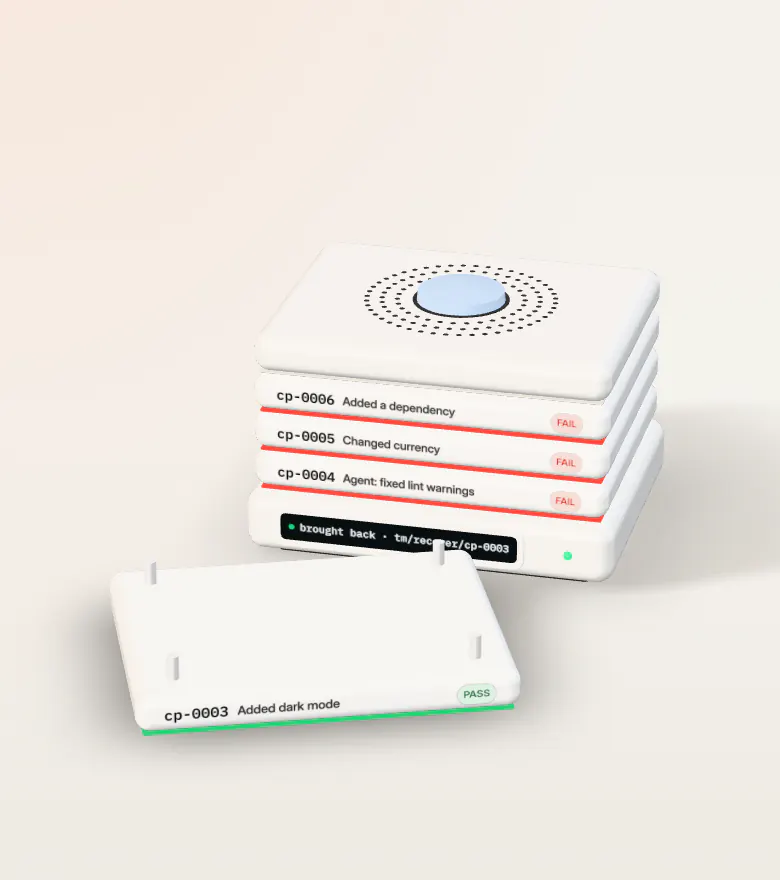
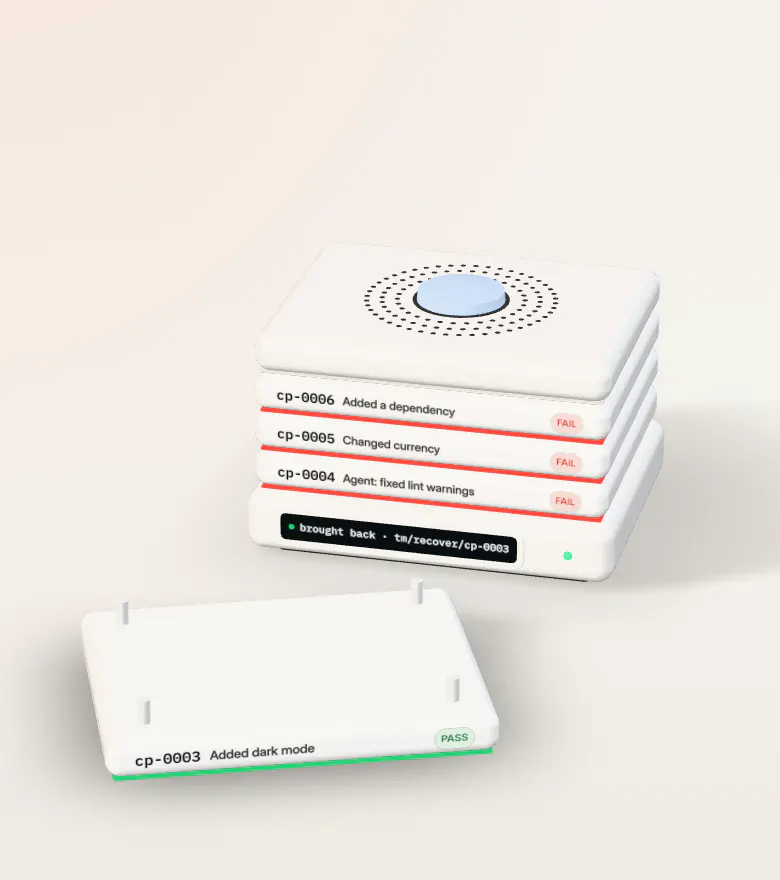
site S5: phones rest cp-0003 below the readout at the end beat (Design next-pass note) (#35)
At 390 the slid-out cp-0003 rested so that its back-right peg covered the
middle of the base's readout ("tm/recov...r/cp-0003"). Phones now rest it
further forward (z 2.75 -> 3.45); the camera looks down there, so it sits
below the readout with a clear gap at every phone size. That far forward its
soft contact shadow reached the edge of the 10-unit shadow plane and ended in
a hard line, so phones use a 12-unit plane (stage.js: contact.phone
overrides). Desktop unchanged: frames at p 0/.3/.565/.75/.9/1 pixel-identical
to the build before, desktop stills byte-identical.

Phone poster and stills re-captured (the plane change alters the p 0 frame):
poster vs 3D 42.0 dB at 390 (45.0 at 1440). Machine whole at every beat at
390x844/664, 360x740, 375x667, 430x932, 412x915, iPhone 15/12/SE 3, Pixel 7,
Galaxy S24; subtitle gaps unchanged. Reverse scroll 20/20; 1440x4 1.5 %,
390x4 0.9 % dropped, 0 LoAF. machine.js 196,983 B gzip -9, byte-identical
rebuild.

Changed region(s): [[0.0308, 0.6136, 0.7077, 0.9205], [0.2154, 0.7364, 0.2462, 0.767], [0.1846, 0.6443, 0.2154, 0.675]]

diff --git a/site/assets/machine/machine.js b/site/assets/machine/machine.js
@@ -4281,11 +4281,11 @@ void main() {
 
 			gl_FragColor = sum;
 
-		}`};var _f=()=>globalThis.scheduler?.yield?globalThis.scheduler.yield():new Promise(s=>setTimeout(s,0)),VS=1;async function Ug(s){let e=s.canvas,t=matchMedia("(max-width: 640px)").matches,n=window.__machineCapture===!0,i=new Il({canvas:e,antialias:!0,alpha:!0,powerPreference:"high-performance",failIfMajorPerformanceCaveat:!0,preserveDrawingBuffer:n});i.setPixelRatio(Math.min(devicePixelRatio,2)*VS),i.toneMapping=zr,i.toneMappingExposure=s.exposure??1,i.outputColorSpace=zt,i.shadowMap.enabled=!0,i.shadowMap.type=vi;let r=new ui;await _f();let a=new Ps(i);r.environment=a.fromScene(new au,.04).texture,r.environmentIntensity=s.envIntensity??1,a.dispose();let o=new wt(s.fov??28,1,.05,100),l={THREE:Ue,renderer:i,scene:r,camera:o,phone:t,canvas:e,p:0,t:0,root:new Sn};r.add(l.root);let c=Object.assign({size:3,y:0,blur:3.2,darkness:1.4,opacity:.55,res:512},s.contact||{}),h=new Sn;h.position.y=c.y,r.add(h);let d=new Dt(c.res,c.res),u=new Dt(c.res,c.res);d.texture.generateMipmaps=u.texture.generateMipmaps=!1;let f=new gi(c.size,c.size).rotateX(Math.PI/2),p=new ot(f,new mn({map:d.texture,opacity:c.opacity,transparent:!0,depthWrite:!1}));p.renderOrder=1,p.scale.y=-1,h.add(p);let _=new ot(f);_.visible=!1,h.add(_);let g=new Qn(-c.size/2,c.size/2,c.size/2,-c.size/2,0,1.2);g.rotation.x=Math.PI/2,h.add(g);let m=new Gi;m.userData.darkness={value:c.darkness},m.onBeforeCompile=Z=>{Z.uniforms.darkness=m.userData.darkness,Z.fragmentShader=`uniform float darkness;
+		}`};var _f=()=>globalThis.scheduler?.yield?globalThis.scheduler.yield():new Promise(s=>setTimeout(s,0)),VS=1;async function Ug(s){let e=s.canvas,t=matchMedia("(max-width: 640px)").matches,n=window.__machineCapture===!0,i=new Il({canvas:e,antialias:!0,alpha:!0,powerPreference:"high-performance",failIfMajorPerformanceCaveat:!0,preserveDrawingBuffer:n});i.setPixelRatio(Math.min(devicePixelRatio,2)*VS),i.toneMapping=zr,i.toneMappingExposure=s.exposure??1,i.outputColorSpace=zt,i.shadowMap.enabled=!0,i.shadowMap.type=vi;let r=new ui;await _f();let a=new Ps(i);r.environment=a.fromScene(new au,.04).texture,r.environmentIntensity=s.envIntensity??1,a.dispose();let o=new wt(s.fov??28,1,.05,100),l={THREE:Ue,renderer:i,scene:r,camera:o,phone:t,canvas:e,p:0,t:0,root:new Sn};r.add(l.root);let c=Object.assign({size:3,y:0,blur:3.2,darkness:1.4,opacity:.55,res:512},s.contact,t&&s.contact?.phone),h=new Sn;h.position.y=c.y,r.add(h);let d=new Dt(c.res,c.res),u=new Dt(c.res,c.res);d.texture.generateMipmaps=u.texture.generateMipmaps=!1;let f=new gi(c.size,c.size).rotateX(Math.PI/2),p=new ot(f,new mn({map:d.texture,opacity:c.opacity,transparent:!0,depthWrite:!1}));p.renderOrder=1,p.scale.y=-1,h.add(p);let _=new ot(f);_.visible=!1,h.add(_);let g=new Qn(-c.size/2,c.size/2,c.size/2,-c.size/2,0,1.2);g.rotation.x=Math.PI/2,h.add(g);let m=new Gi;m.userData.darkness={value:c.darkness},m.onBeforeCompile=Z=>{Z.uniforms.darkness=m.userData.darkness,Z.fragmentShader=`uniform float darkness;
 `+Z.fragmentShader.replace("gl_FragColor = vec4( vec3( 1.0 - fragCoordZ ), opacity );","gl_FragColor = vec4( vec3( 0.0 ), ( 1.0 - fragCoordZ ) * darkness );")},m.depthTest=m.depthWrite=!1;let y=new Gt(Lg),b=new Gt(Dg);y.depthTest=b.depthTest=!1;function x(Z){_.visible=!0,_.material=y,y.uniforms.tDiffuse.value=d.texture,y.uniforms.h.value=Z/256,i.setRenderTarget(u),i.render(_,g),_.material=b,b.uniforms.tDiffuse.value=u.texture,b.uniforms.v.value=Z/256,i.setRenderTarget(d),i.render(_,g),_.visible=!1}function w(){p.visible=!1,r.overrideMaterial=m;let Z=i.getClearAlpha();i.setClearAlpha(0),i.setRenderTarget(d),i.clear(),i.render(r,g),r.overrideMaterial=null,x(c.blur),x(c.blur*.4),i.setRenderTarget(null),i.setClearAlpha(Z),p.visible=!0}function T(){let Z=e.clientWidth,V=e.clientHeight;!Z||!V||(i.setSize(Z,V,!1),o.aspect=Z/V,o.updateProjectionMatrix())}let C=s.pin,v=C?[...C.querySelectorAll("*")].find(Z=>getComputedStyle(Z).position==="sticky"):null;function E(){if(!C||!v)return 0;let Z=parseFloat(getComputedStyle(v).top)||0,V=C.offsetHeight-v.offsetHeight;return V>0?Math.max(0,Math.min(1,(Z-C.getBoundingClientRect().top)/V)):0}i.shadowMap.autoUpdate=!1;let I=[],P=null;function O(){r.updateMatrixWorld();let Z=0,V=!P;P??=new Float64Array(I.length*16);for(let Q of I)for(let q of Q.matrixWorld.elements)P[Z]!==q&&(P[Z]=q,V=!0),Z++;return V}let U=0,L=performance.now(),B=!1;function X(Z){U=0;let V=Math.min(.05,(Z-L)/1e3);L=Z,l.t+=V,l.dt=V,B=s.update(l.p,l)===!0,O()&&(i.shadowMap.needsUpdate=!0,w()),i.render(r,o),B&&W()}function W(){U||(L=performance.now(),U=requestAnimationFrame(X))}return l.request=W,await _f(),s.build(l),r.traverse(Z=>{Z.isMesh&&Z.castShadow&&I.push(Z)}),T(),await _f(),await i.compileAsync(r,o),new ResizeObserver(()=>{T(),W()}).observe(e),addEventListener("scroll",()=>{l.p=E(),W()},{passive:!0}),l.p=E(),l.setP=(Z,V=90)=>new Promise(Q=>{l.p=Z;let q=0,Me=()=>{l.p=Z,X(performance.now()),B&&q++<V?requestAnimationFrame(Me):requestAnimationFrame(()=>Q())};requestAnimationFrame(Me)}),W(),l}function xf(s,e,t){let n=document.createElement("canvas");n.width=s,n.height=e;let i=n.getContext("2d"),r=new gr(n);r.colorSpace=zt,r.anisotropy=8;let a=(...o)=>{i.clearRect(0,0,s,e),t(i,s,e,...o),r.needsUpdate=!0};return a(),{texture:r,redraw:a}}var Ng={inOut:s=>s<.5?4*s*s*s:1-Math.pow(-2*s+2,3)/2,out:s=>1-Math.pow(1-s,3),seg:(s,e,t)=>Math.max(0,Math.min(1,(s-e)/(t-e))),mix:(s,e,t)=>s+(e-s)*t},Fg=[{id:"cp-0006",note:"Added a dependency",pass:!1,time:"10:42:07"},{id:"cp-0005",note:"Changed currency",pass:!1,time:"10:31:52"},{id:"cp-0004",note:"Agent: fixed lint warnings",pass:!1,time:"10:18:40"},{id:"cp-0003",note:"Added dark mode",pass:!0,time:"10:02:13"}];var Pl=new R;function Rn(s,e,t,n,i,r){let a=2*Math.PI*i/4,o=Math.max(r-2*i,0),l=Math.PI/4;Pl.copy(e),Pl[n]=0,Pl.normalize();let c=.5*a/(a+o),h=1-Pl.angleTo(s)/l;return Math.sign(Pl[t])===1?h*c:o/(a+o)+c+c*(1-h)}var Ti=class s extends wn{constructor(e=1,t=1,n=1,i=2,r=.1){let a=i*2+1;if(r=Math.min(e/2,t/2,n/2,r),super(1,1,1,a,a,a),this.type="RoundedBoxGeometry",this.parameters={width:e,height:t,depth:n,segments:i,radius:r},a===1)return;let o=this.toNonIndexed();this.index=null,this.attributes.position=o.attributes.position,this.attributes.normal=o.attributes.normal,this.attributes.uv=o.attributes.uv;let l=new R,c=new R,h=new R(e,t,n).divideScalar(2).subScalar(r),d=this.attributes.position.array,u=this.attributes.normal.array,f=this.attributes.uv.array,p=d.length/6,_=new R,g=.5/a;for(let m=0,y=0;m<d.length;m+=3,y+=2)switch(l.fromArray(d,m),c.copy(l),c.x-=Math.sign(c.x)*g,c.y-=Math.sign(c.y)*g,c.z-=Math.sign(c.z)*g,c.normalize(),d[m+0]=h.x*Math.sign(l.x)+c.x*r,d[m+1]=h.y*Math.sign(l.y)+c.y*r,d[m+2]=h.z*Math.sign(l.z)+c.z*r,u[m+0]=c.x,u[m+1]=c.y,u[m+2]=c.z,Math.floor(m/p)){case 0:_.set(1,0,0),f[y+0]=Rn(_,c,"z","y",r,n),f[y+1]=1-Rn(_,c,"y","z",r,t);break;case 1:_.set(-1,0,0),f[y+0]=1-Rn(_,c,"z","y",r,n),f[y+1]=1-Rn(_,c,"y","z",r,t);break;case 2:_.set(0,1,0),f[y+0]=1-Rn(_,c,"x","z",r,e),f[y+1]=Rn(_,c,"z","x",r,n);break;case 3:_.set(0,-1,0),f[y+0]=1-Rn(_,c,"x","z",r,e),f[y+1]=1-Rn(_,c,"z","x",r,n);break;case 4:_.set(0,0,1),f[y+0]=1-Rn(_,c,"x","y",r,e),f[y+1]=1-Rn(_,c,"y","x",r,t);break;case 5:_.set(0,0,-1),f[y+0]=Rn(_,c,"x","y",r,e),f[y+1]=1-Rn(_,c,"y","x",r,t);break}}static fromJSON(e){return new s(e.width,e.height,e.depth,e.segments,e.radius)}};var{seg:an,mix:qi,inOut:ou,out:kS}=Ng,ta='"IBM Plex Mono", ui-monospace, monospace',cu="Inter, system-ui, sans-serif",Og="#141414",Bg="#3a3936",Ul={idle:new Ue.Color("#b4d6ff"),scan:new Ue.Color("#ffffff"),fail:new Ue.Color("#ff4a3d"),pass:new Ue.Color("#2fd27a")},Be={W:2.8,Dp:2.2,foot:.05,baseH:.5,H:.3,seam:.024,capH:.32,gap:.5,r:.11},GS=[3,2,1,0],wf=Be.foot+Be.baseH,hu=Be.H+Be.seam,Sf=s=>wf+Be.seam+Be.H/2+s*hu,Wg=wf+4*hu+Be.capH/2+.012,ni={layers:[]},uu;function bf(s,e,t){let n=new Ue.Shape,i=-s/2,r=-e/2;return n.moveTo(i+t,r),n.lineTo(i+s-t,r),n.quadraticCurveTo(i+s,r,i+s,r+t),n.lineTo(i+s,r+e-t),n.quadraticCurveTo(i+s,r+e,i+s-t,r+e),n.lineTo(i+t,r+e),n.quadraticCurveTo(i,r+e,i,r+e-t),n.lineTo(i,r+t),n.quadraticCurveTo(i,r,i+t,r),n}function HS(s,e,t,n){let i=new Ue.Mesh(new Ue.ShapeGeometry(bf(s,e,t),12),n),r=i.geometry.attributes.uv,a=i.geometry.attributes.position;for(let o=0;o<r.count;o++)r.setXY(o,a.getX(o)/s+.5,a.getY(o)/e+.5);return i}function WS(s){let{scene:e,root:t}=s,n=new Ue.MeshPhysicalMaterial({color:"#f8f8f6",roughness:.34,clearcoat:.55,clearcoatRoughness:.3,sheen:.3,sheenColor:new Ue.Color("#ffffff"),sheenRoughness:.55}),i=n.clone();i.color=new Ue.Color("#efeeeb"),i.roughness=.42;let r=new Ue.MeshStandardMaterial({color:"#2a2928",roughness:.9}),a=new Ue.MeshPhysicalMaterial({color:"#ffffff",metalness:.5,roughness:.3,envMapIntensity:1.3}),o=new Ue.MeshStandardMaterial({color:"#3b3a38",roughness:.85}),l=new Ue.Group;t.add(l),ni.machine=l;let c=new Ue.Mesh(new Ti(Be.W+.12,Be.baseH,Be.Dp+.12,8,Be.r+.03),i);c.position.y=Be.foot+Be.baseH/2,c.castShadow=c.receiveShadow=!0,l.add(c);let h=new Ue.Mesh(new Ti(Be.W-.3,Be.foot*2,Be.Dp-.3,3,.04),o);h.position.y=Be.foot*.5,l.add(h);let d=(Be.Dp+.12)/2;uu=xf(1400,180,qS);let u=HS(1.9,.24,.06,new Ue.MeshPhysicalMaterial({color:"#0d0f10",roughness:.12,clearcoat:1,clearcoatRoughness:.05,emissive:"#ffffff",emissiveMap:uu.texture,emissiveIntensity:1.1}));u.position.set(-.22,Be.foot+Be.baseH/2,d+.003),l.add(u);let f=new Ue.Mesh(new Ue.ExtrudeGeometry((()=>{let q=bf(1.98,.32,.1);return q.holes.push(bf(1.9,.24,.06)),q})(),{depth:.02,bevelEnabled:!0,bevelThickness:.008,bevelSize:.008,bevelSegments:2,curveSegments:10}),i);f.position.set(-.22,Be.foot+Be.baseH/2,d-.012),l.add(f);let p=new Ue.Mesh(new Ue.SphereGeometry(.035,20,10),new Ue.MeshStandardMaterial({color:"#26394f",emissive:"#9fcbff",emissiveIntensity:1.8,roughness:.3}));p.position.set(1.12,Be.foot+Be.baseH/2,d+.004),l.add(p),ni.led=p;let _=new Ue.CylinderGeometry(.045,.045,.2,20),g=[[-1,-1],[1,-1],[-1,1],[1,1]].map(([q,Me])=>[q*(Be.W/2-.3),Me*(Be.Dp/2-.3)]);function m(q,Me){for(let[de,et]of g){let Je=new Ue.Mesh(_,a);Je.position.set(de,Me,et),Je.castShadow=!0,q.add(Je)}}m(l,wf+.08);let y=new Ti(Be.W,Be.H,Be.Dp,7,Be.r),b=new Ti(Be.W-.1,Be.seam+.002,Be.Dp-.1,3,.03);for(let q=0;q<4;q++){let Me=Fg[GS[q]],de=new Ue.Group,et=new Ue.Mesh(y,n);et.castShadow=et.receiveShadow=!0,de.add(et);let Je=new Ue.MeshBasicMaterial({color:Ul.idle.clone(),toneMapped:!1}),rt=new Ue.Mesh(b,Je);rt.position.y=-Be.H/2-Be.seam/2,de.add(rt),m(de,Be.H/2+.08);let J=xf(2048,200,(_e,Ve,we,He)=>XS(_e,Ve,we,Me,He)),ee=new Ue.Mesh(new Ue.PlaneGeometry(Be.W-.34,(Be.W-.34)*(200/2048)),new Ue.MeshPhysicalMaterial({map:J.texture,transparent:!0,roughness:.36,clearcoat:.55,depthWrite:!1,polygonOffset:!0,polygonOffsetFactor:-2}));ee.position.set(0,0,Be.Dp/2+.002),de.add(ee),de.position.y=Sf(q),l.add(de),ni.layers.push({g:de,seam:Je,label:J,save:Me,state:""})}let x=new Ue.Group,w=new Ue.Mesh(new Ti(Be.W,Be.capH,Be.Dp,8,Be.r+.02),i);w.castShadow=w.receiveShadow=!0,x.add(w);let T=new Ue.Mesh(new Ti(Be.W-.12,.01,Be.Dp-.12,2,.03),new Ue.MeshStandardMaterial({color:"#c9c5be",roughness:.9}));T.position.y=-Be.capH/2-.006,x.add(T);let C=new Ue.CircleGeometry(.022,14).rotateX(-Math.PI/2),v=[{r:.5,n:30},{r:.62,n:38},{r:.74,n:46}],E=new Ue.InstancedMesh(C,new Ue.MeshStandardMaterial({color:"#2b2a29",roughness:.95}),v.reduce((q,Me)=>q+Me.n,0)),I=new Ue.Matrix4,P=0;for(let{r:q,n:Me}of v)for(let de=0;de<Me;de++){let et=de/Me*Math.PI*2;I.makeTranslation(Math.cos(et)*q,Be.capH/2+.002,Math.sin(et)*q),E.setMatrixAt(P++,I)}x.add(E);let O=new Ue.Mesh(new Ue.CylinderGeometry(.38,.38,.02,64),r);O.position.y=Be.capH/2-.004,x.add(O);let U=new Ue.Group,L=new Ue.MeshPhysicalMaterial({color:"#cfe6ff",roughness:.32,clearcoat:.6,clearcoatRoughness:.25}),B=new Ue.Mesh(new Ue.CylinderGeometry(.34,.35,.09,64),L),X=new Ue.Mesh(new Ue.SphereGeometry(1.6,64,8,0,Math.PI*2,0,Math.asin(.34/1.6)),L);X.position.y=.045-1.6*Math.cos(Math.asin(.34/1.6)),B.castShadow=X.castShadow=!0,U.add(B,X),U.position.y=Be.capH/2+.04,x.add(U),ni.key=U,x.position.y=Wg,l.add(x),ni.cap=x;let W=new Ue.ShadowMaterial({color:"#5e5249",opacity:.15});W.onBeforeCompile=q=>{q.vertexShader=q.vertexShader.replace("#include <common>",`#include <common>
 varying vec2 vFloor;`).replace("#include <begin_vertex>",`#include <begin_vertex>
 vFloor = (modelMatrix * vec4(transformed, 1.0)).xz;`),q.fragmentShader=q.fragmentShader.replace("#include <common>",`#include <common>
-varying vec2 vFloor;`).replace("gl_FragColor = vec4( color, opacity * ( 1.0 - getShadowMask() ) );","gl_FragColor = vec4( color, opacity * ( 1.0 - getShadowMask() ) * ( 1.0 - smoothstep( 1.6, 3.4, length( vFloor - vec2( 0.5, -0.3 ) ) ) ) );")};let Z=new Ue.Mesh(new Ue.PlaneGeometry(40,40).rotateX(-Math.PI/2),W);Z.receiveShadow=!0,e.add(Z);let V=new Ue.DirectionalLight("#fff0e2",2.6);V.position.set(-9,5.2,5),V.castShadow=!0,V.shadow.mapSize.set(2048,2048),V.shadow.radius=22,V.shadow.blurSamples=24,V.shadow.bias=-5e-4,Object.assign(V.shadow.camera,{left:-6,right:11,top:9,bottom:-5,near:1,far:30}),e.add(V);let Q=new Ue.DirectionalLight("#dceaff",1.1);Q.position.set(6,5,-6),e.add(Q)}function XS(s,e,t,n,i){let r=t/2;s.textBaseline="middle",s.fillStyle=Og,s.font=`500 92px ${ta}`,s.fillText(n.id,24,r);let a=s.measureText(n.id).width;if(s.fillStyle=Bg,s.font=`500 78px ${cu}`,s.fillText(n.note,24+a+52,r),s.textAlign="right",i==="fail"||i==="pass"||i==="scan"){let o=i==="fail"?"FAIL":i==="pass"?"PASS":"Checking",[l,c]=i==="fail"?["#fbe1db","#b3261e"]:i==="pass"?["#dff3e4","#17733e"]:["#cfe6ff",Og];s.font=`700 64px ${cu}`;let h=s.measureText(o).width,d=h+72,u=132,f=e-24-d,p=r-u/2;s.fillStyle=l,s.beginPath(),s.roundRect(f,p,d,u,u/2),s.fill(),s.fillStyle=c,s.fillText(o,e-24-36,r+2)}else s.fillStyle=Bg,s.font=`400 72px ${ta}`,s.fillText(n.time,e-24,r);s.textAlign="left"}function qS(s,e,t,n="4 save points \xB7 ready",i="#cfe6ff",r=n.length){s.fillStyle="#0d0f10",s.fillRect(0,0,e,t),s.textBaseline="middle",s.fillStyle=i,s.beginPath(),s.arc(70,t/2,16,0,Math.PI*2),s.fill(),s.fillStyle="#eef3f8",s.font=`500 70px ${ta}`;let a=Math.min(70,Math.floor(70*(e-160)/s.measureText(n).width));s.font=`500 ${a}px ${ta}`;let o=n.slice(0,r);s.fillText(o,120,t/2+2),r<n.length&&s.fillRect(120+s.measureText(o).width+6,t/2-a*.5,a*.58,a)}var Xg=[...document.querySelectorAll("[data-sub]")],vf=document.querySelector("[data-hero]"),YS=document.querySelector("[data-cue]"),ZS=document.querySelector("[data-live]"),Tf=document.getElementById("poster"),qg=()=>{Tf?.remove(),Tf=null},zg=-1,lu="",Vg="",Ll=-1,yf=-1,Dl=new Ue.Vector3,kg=new Ue.Vector3,Mf=new Ue.Color,Gg=Xg.map(s=>{let e=s.querySelector(".sub-s"),t=e.textContent,n=document.createTextNode(t),i=document.createElement("span"),r=document.createElement("span");return i.className="cur",r.className="rest",e.replaceChildren(n,i,r),{text:t,typed:n,rest:r}}),Hg=0;function JS(s){clearTimeout(Hg);for(let a of Gg)a.typed.data=a.text,a.rest.textContent="";if(s<0)return;let{text:e,typed:t,rest:n}=Gg[s],i=Math.ceil(e.length/12),r=0;(function a(){r=Math.min(e.length,r+i),t.data=e.slice(0,r),n.textContent=e.slice(r),r<e.length&&(Hg=setTimeout(a,22))})()}var $S=s=>[.28+.07*s,.28+.07*s+.04];function KS(s,e){let{camera:t,phone:n}=e,i=ni.layers;Tf&&s>5e-4&&qg();let r=(U,L=1.1)=>1+(L+1)*(U-1)**3+L*(U-1)**2,a=U=>r(ou(an(s,.06+.025*U,.2+.025*U))),o=ou(an(s,.6,.8)),l=ou(an(s,.68,.86));for(let U=0;U<4;U++){let L=i[U].g,B=a(4-U)*(1-(U===0?0:l)),X=Sf(U)+(U+1)*Be.gap*B,W=0,Z=0,V=0,Q=0;U===0?(X=qi(Sf(0)+Be.gap*a(4),Be.seam+Be.H/2+.002,kS(an(s,.66,.86)))+.22*Math.sin(Math.PI*o),W=(n?-.5:-2.25)*o,Z=(n?2.75:2.35)*o,V=.4*o,Q=.03*Math.sin(Math.PI*o)):X-=hu*l;let q=Math.sin(Math.PI*an(s,.06+.025*(4-U),.2+.025*(4-U)));L.position.set(W,X,Z),L.rotation.set(Q,V+.035*q*(U%2?1:-1),.01*q)}ni.cap.position.y=Wg+5*Be.gap*a(0)*(1-l)-hu*l;let c="4 save points \xB7 ready",h="#cfe6ff",d="";for(let U=0;U<4;U++){let L=3-U,B=i[L],[X,W]=$S(U),Z=an(s,X,W),V=s>=W,Q=V?B.save.pass?"pass":"fail":Z>0?"scan":"",q=Math.sin(Math.PI*Z);V?Mf.copy(B.save.pass?Ul.pass:Ul.fail):Mf.copy(Ul.idle).lerp(Ul.scan,q),B.seam.color.copy(Mf),Q!==B.state&&(B.label.redraw(Q),B.state=Q),Z>0&&(c=V?`${B.save.id} \xB7 ${B.save.pass?"passed":"failed"}`:`checking ${B.save.id}`,h=V?B.save.pass?"#2fd27a":"#ff4a3d":"#ffffff"),V&&(d=`${B.save.id} \xB7 ${B.save.note} \xB7 ${B.save.pass?"tests passed":"tests failed"}`)}s>=.6&&(c="brought back \xB7 tm/recover/cp-0003",h="#2fd27a",d="cp-0003 brought back on branch tm/recover/cp-0003, in a separate copy"),c!==lu&&(Ll=lu?e.t:-1,yf=-1,lu=c,Ll<0&&uu.redraw(c,h));let u=!1;if(Ll>=0){let U=Math.min(c.length,3*Math.floor((e.t-Ll)/.03+1));U!==yf&&(uu.redraw(c,h,U),yf=U),U<c.length?u=!0:Ll=-1}ni.led.material.emissive.set(h),d!==Vg&&(ZS.textContent=d,Vg=d);let f=an(s,.585,.605)-an(s,.62,.64);ni.key.position.y=Be.capH/2+.04-.035*f;let p=[{p:0,az:34,el:17,d:11.2,ty:1.15},{p:.24,az:26,el:13,d:16.4,ty:2.5},{p:.56,az:20,el:11,d:16,ty:2.3},{p:.86,az:14,el:15,d:14,ty:1.1}],_=0;for(;_<p.length-2&&s>p[_+1].p;)_++;let g=p[_],m=p[_+1],y=ou(an(s,g.p,m.p)),b=n?qi(2.15,1.85,an(s,.03,.2))+.35*an(s,.6,.86):1,x=qi(g.el,m.el,y)+(n?9*an(s,.6,.86):0),w=qi(g.az,m.az,y)*Math.PI/180,T=x*Math.PI/180,C=qi(g.d,m.d,y)*b;Dl.set((n?-.35:-.7)*o,qi(g.ty,m.ty,y)+(n?-.35:0),qi(0,.9,an(s,.6,.86))),kg.set(Dl.x+Math.sin(w)*Math.cos(T)*C,Dl.y+Math.sin(T)*C,Dl.z+Math.cos(w)*Math.cos(T)*C),t.position.copy(kg),t.lookAt(Dl);let v=e.canvas.clientWidth,E=e.canvas.clientHeight,I=e.canvas.dataset.dy;n?t.setViewOffset(v,E,0,-qi(I===void 0?E*.27:+I,E*.11,an(s,.03,.2)),v,E):t.setViewOffset(v,E,-v*.17,0,v,E);let P=an(s,.03,.12);vf.style.opacity=String(1-P),vf.style.transform=`translateY(${-14*P}px)`,vf.style.visibility=P>=1?"hidden":"",YS.style.opacity=s<.02?"":"0";let O=s<.27?-1:s<.53?0:s<.6?1:2;return O!==zg&&(Xg.forEach((U,L)=>U.classList.toggle("on",L===O)),zg=O,JS(O)),u}var fu=document.getElementById("machine"),du=await Ug({canvas:fu,pin:document.querySelector(".pin"),fov:24,exposure:1,envIntensity:.7,contact:{size:10,y:.001,blur:3.4,darkness:1.3,opacity:.55},build:WS,update:KS});fu.addEventListener("layout",()=>du.request());fu.addEventListener("transitionend",qg,{once:!0});Promise.all([`500 92px ${ta}`,`400 72px ${ta}`,`500 78px ${cu}`,`700 64px ${cu}`].map(s=>document.fonts.load(s))).finally(()=>{for(let s of ni.layers)s.label.redraw(s.state);lu="",du.request(),requestAnimationFrame(()=>requestAnimationFrame(()=>fu.classList.add("on")))});window.__machineCapture===!0&&(du.ready=!0,window.__stage=du);
+varying vec2 vFloor;`).replace("gl_FragColor = vec4( color, opacity * ( 1.0 - getShadowMask() ) );","gl_FragColor = vec4( color, opacity * ( 1.0 - getShadowMask() ) * ( 1.0 - smoothstep( 1.6, 3.4, length( vFloor - vec2( 0.5, -0.3 ) ) ) ) );")};let Z=new Ue.Mesh(new Ue.PlaneGeometry(40,40).rotateX(-Math.PI/2),W);Z.receiveShadow=!0,e.add(Z);let V=new Ue.DirectionalLight("#fff0e2",2.6);V.position.set(-9,5.2,5),V.castShadow=!0,V.shadow.mapSize.set(2048,2048),V.shadow.radius=22,V.shadow.blurSamples=24,V.shadow.bias=-5e-4,Object.assign(V.shadow.camera,{left:-6,right:11,top:9,bottom:-5,near:1,far:30}),e.add(V);let Q=new Ue.DirectionalLight("#dceaff",1.1);Q.position.set(6,5,-6),e.add(Q)}function XS(s,e,t,n,i){let r=t/2;s.textBaseline="middle",s.fillStyle=Og,s.font=`500 92px ${ta}`,s.fillText(n.id,24,r);let a=s.measureText(n.id).width;if(s.fillStyle=Bg,s.font=`500 78px ${cu}`,s.fillText(n.note,24+a+52,r),s.textAlign="right",i==="fail"||i==="pass"||i==="scan"){let o=i==="fail"?"FAIL":i==="pass"?"PASS":"Checking",[l,c]=i==="fail"?["#fbe1db","#b3261e"]:i==="pass"?["#dff3e4","#17733e"]:["#cfe6ff",Og];s.font=`700 64px ${cu}`;let h=s.measureText(o).width,d=h+72,u=132,f=e-24-d,p=r-u/2;s.fillStyle=l,s.beginPath(),s.roundRect(f,p,d,u,u/2),s.fill(),s.fillStyle=c,s.fillText(o,e-24-36,r+2)}else s.fillStyle=Bg,s.font=`400 72px ${ta}`,s.fillText(n.time,e-24,r);s.textAlign="left"}function qS(s,e,t,n="4 save points \xB7 ready",i="#cfe6ff",r=n.length){s.fillStyle="#0d0f10",s.fillRect(0,0,e,t),s.textBaseline="middle",s.fillStyle=i,s.beginPath(),s.arc(70,t/2,16,0,Math.PI*2),s.fill(),s.fillStyle="#eef3f8",s.font=`500 70px ${ta}`;let a=Math.min(70,Math.floor(70*(e-160)/s.measureText(n).width));s.font=`500 ${a}px ${ta}`;let o=n.slice(0,r);s.fillText(o,120,t/2+2),r<n.length&&s.fillRect(120+s.measureText(o).width+6,t/2-a*.5,a*.58,a)}var Xg=[...document.querySelectorAll("[data-sub]")],vf=document.querySelector("[data-hero]"),YS=document.querySelector("[data-cue]"),ZS=document.querySelector("[data-live]"),Tf=document.getElementById("poster"),qg=()=>{Tf?.remove(),Tf=null},zg=-1,lu="",Vg="",Ll=-1,yf=-1,Dl=new Ue.Vector3,kg=new Ue.Vector3,Mf=new Ue.Color,Gg=Xg.map(s=>{let e=s.querySelector(".sub-s"),t=e.textContent,n=document.createTextNode(t),i=document.createElement("span"),r=document.createElement("span");return i.className="cur",r.className="rest",e.replaceChildren(n,i,r),{text:t,typed:n,rest:r}}),Hg=0;function JS(s){clearTimeout(Hg);for(let a of Gg)a.typed.data=a.text,a.rest.textContent="";if(s<0)return;let{text:e,typed:t,rest:n}=Gg[s],i=Math.ceil(e.length/12),r=0;(function a(){r=Math.min(e.length,r+i),t.data=e.slice(0,r),n.textContent=e.slice(r),r<e.length&&(Hg=setTimeout(a,22))})()}var $S=s=>[.28+.07*s,.28+.07*s+.04];function KS(s,e){let{camera:t,phone:n}=e,i=ni.layers;Tf&&s>5e-4&&qg();let r=(U,L=1.1)=>1+(L+1)*(U-1)**3+L*(U-1)**2,a=U=>r(ou(an(s,.06+.025*U,.2+.025*U))),o=ou(an(s,.6,.8)),l=ou(an(s,.68,.86));for(let U=0;U<4;U++){let L=i[U].g,B=a(4-U)*(1-(U===0?0:l)),X=Sf(U)+(U+1)*Be.gap*B,W=0,Z=0,V=0,Q=0;U===0?(X=qi(Sf(0)+Be.gap*a(4),Be.seam+Be.H/2+.002,kS(an(s,.66,.86)))+.22*Math.sin(Math.PI*o),W=(n?-.5:-2.25)*o,Z=(n?3.45:2.35)*o,V=.4*o,Q=.03*Math.sin(Math.PI*o)):X-=hu*l;let q=Math.sin(Math.PI*an(s,.06+.025*(4-U),.2+.025*(4-U)));L.position.set(W,X,Z),L.rotation.set(Q,V+.035*q*(U%2?1:-1),.01*q)}ni.cap.position.y=Wg+5*Be.gap*a(0)*(1-l)-hu*l;let c="4 save points \xB7 ready",h="#cfe6ff",d="";for(let U=0;U<4;U++){let L=3-U,B=i[L],[X,W]=$S(U),Z=an(s,X,W),V=s>=W,Q=V?B.save.pass?"pass":"fail":Z>0?"scan":"",q=Math.sin(Math.PI*Z);V?Mf.copy(B.save.pass?Ul.pass:Ul.fail):Mf.copy(Ul.idle).lerp(Ul.scan,q),B.seam.color.copy(Mf),Q!==B.state&&(B.label.redraw(Q),B.state=Q),Z>0&&(c=V?`${B.save.id} \xB7 ${B.save.pass?"passed":"failed"}`:`checking ${B.save.id}`,h=V?B.save.pass?"#2fd27a":"#ff4a3d":"#ffffff"),V&&(d=`${B.save.id} \xB7 ${B.save.note} \xB7 ${B.save.pass?"tests passed":"tests failed"}`)}s>=.6&&(c="brought back \xB7 tm/recover/cp-0003",h="#2fd27a",d="cp-0003 brought back on branch tm/recover/cp-0003, in a separate copy"),c!==lu&&(Ll=lu?e.t:-1,yf=-1,lu=c,Ll<0&&uu.redraw(c,h));let u=!1;if(Ll>=0){let U=Math.min(c.length,3*Math.floor((e.t-Ll)/.03+1));U!==yf&&(uu.redraw(c,h,U),yf=U),U<c.length?u=!0:Ll=-1}ni.led.material.emissive.set(h),d!==Vg&&(ZS.textContent=d,Vg=d);let f=an(s,.585,.605)-an(s,.62,.64);ni.key.position.y=Be.capH/2+.04-.035*f;let p=[{p:0,az:34,el:17,d:11.2,ty:1.15},{p:.24,az:26,el:13,d:16.4,ty:2.5},{p:.56,az:20,el:11,d:16,ty:2.3},{p:.86,az:14,el:15,d:14,ty:1.1}],_=0;for(;_<p.length-2&&s>p[_+1].p;)_++;let g=p[_],m=p[_+1],y=ou(an(s,g.p,m.p)),b=n?qi(2.15,1.85,an(s,.03,.2))+.35*an(s,.6,.86):1,x=qi(g.el,m.el,y)+(n?9*an(s,.6,.86):0),w=qi(g.az,m.az,y)*Math.PI/180,T=x*Math.PI/180,C=qi(g.d,m.d,y)*b;Dl.set((n?-.35:-.7)*o,qi(g.ty,m.ty,y)+(n?-.35:0),qi(0,.9,an(s,.6,.86))),kg.set(Dl.x+Math.sin(w)*Math.cos(T)*C,Dl.y+Math.sin(T)*C,Dl.z+Math.cos(w)*Math.cos(T)*C),t.position.copy(kg),t.lookAt(Dl);let v=e.canvas.clientWidth,E=e.canvas.clientHeight,I=e.canvas.dataset.dy;n?t.setViewOffset(v,E,0,-qi(I===void 0?E*.27:+I,E*.11,an(s,.03,.2)),v,E):t.setViewOffset(v,E,-v*.17,0,v,E);let P=an(s,.03,.12);vf.style.opacity=String(1-P),vf.style.transform=`translateY(${-14*P}px)`,vf.style.visibility=P>=1?"hidden":"",YS.style.opacity=s<.02?"":"0";let O=s<.27?-1:s<.53?0:s<.6?1:2;return O!==zg&&(Xg.forEach((U,L)=>U.classList.toggle("on",L===O)),zg=O,JS(O)),u}var fu=document.getElementById("machine"),du=await Ug({canvas:fu,pin:document.querySelector(".pin"),fov:24,exposure:1,envIntensity:.7,contact:{size:10,y:.001,blur:3.4,darkness:1.3,opacity:.55,phone:{size:12}},build:WS,update:KS});fu.addEventListener("layout",()=>du.request());fu.addEventListener("transitionend",qg,{once:!0});Promise.all([`500 92px ${ta}`,`400 72px ${ta}`,`500 78px ${cu}`,`700 64px ${cu}`].map(s=>document.fonts.load(s))).finally(()=>{for(let s of ni.layers)s.label.redraw(s.state);lu="",du.request(),requestAnimationFrame(()=>requestAnimationFrame(()=>fu.classList.add("on")))});window.__machineCapture===!0&&(du.ready=!0,window.__stage=du);
 /**
  * @license
  * Copyright 2010-2026 Three.js Authors

diff --git a/scripts/site-machine/src/scene.js b/scripts/site-machine/src/scene.js
@@ -274,8 +274,10 @@ function update(p, st) {
       // rests on its own seam plate, so the green light pools on the floor (the floor shows only shadow, so nothing may
       // sit below it).
       y = mix(layerY(0) + D.gap * open(4), D.seam + D.H / 2 + 0.002, out(seg(p, 0.66, 0.86))) + 0.22 * Math.sin(Math.PI * out3);
+      // Phones rest it further forward, so the camera (looking down there) shows it below the base's readout, whose
+      // middle a back peg covered at 2.75 (Design, 10-24). The contact shadow reaches that far on phones (size 12).
       x = (phone ? -0.5 : -2.25) * out3;
-      z = (phone ? 2.75 : 2.35) * out3;
+      z = (phone ? 3.45 : 2.35) * out3;
       yaw = 0.4 * out3;
       roll = 0.03 * Math.sin(Math.PI * out3);
     } else {
@@ -359,7 +361,7 @@ function update(p, st) {
 }
 
 const canvas = document.getElementById("machine");
-const stage = await createStage({ canvas, pin: document.querySelector(".pin"), fov: 24, exposure: 1.0, envIntensity: 0.7, contact: { size: 10, y: 0.001, blur: 3.4, darkness: 1.3, opacity: 0.55 }, build, update });
+const stage = await createStage({ canvas, pin: document.querySelector(".pin"), fov: 24, exposure: 1.0, envIntensity: 0.7, contact: { size: 10, y: 0.001, blur: 3.4, darkness: 1.3, opacity: 0.55, phone: { size: 12 } }, build, update });
 // load.js moves the machine under the hero on phones (data-dy) and says so when the hero's height changes.
 canvas.addEventListener("layout", () => stage.request());
 // The canvas fades in over the poster on its first frame drawn with the page's faces (the poster was captured with

diff --git a/scripts/site-machine/src/stage.js b/scripts/site-machine/src/stage.js
@@ -27,7 +27,8 @@ const PIXEL_SCALE = 1;
  * @param {number} [o.fov]
  * @param {number} [o.exposure]
  * @param {number} [o.envIntensity]
- * @param {{size:number, y:number, blur:number, darkness:number, opacity:number, res:number}} [o.contact]
+ * @param {{size:number, y:number, blur:number, darkness:number, opacity:number, res:number, phone:object}} [o.contact]
+ *   `phone`: overrides of these values for phone viewports
  * @param {(stage) => void} o.build  builds the scene once
  * @param {(p:number, stage) => boolean|void} o.update  poses the scene for p; return true to keep animating
  * @returns {Promise<object>} the stage
@@ -60,7 +61,7 @@ export async function createStage(o) {
   scene.add(stage.root);
 
   // ---- soft contact shadow (three's webgl_shadow_contact technique): the object's depth seen from below, blurred.
-  const cs = Object.assign({ size: 3, y: 0, blur: 3.2, darkness: 1.4, opacity: 0.55, res: 512 }, o.contact || {});
+  const cs = Object.assign({ size: 3, y: 0, blur: 3.2, darkness: 1.4, opacity: 0.55, res: 512 }, o.contact, phone && o.contact?.phone);
   const shadowGroup = new THREE.Group();
   shadowGroup.position.y = cs.y;
   scene.add(shadowGroup);
